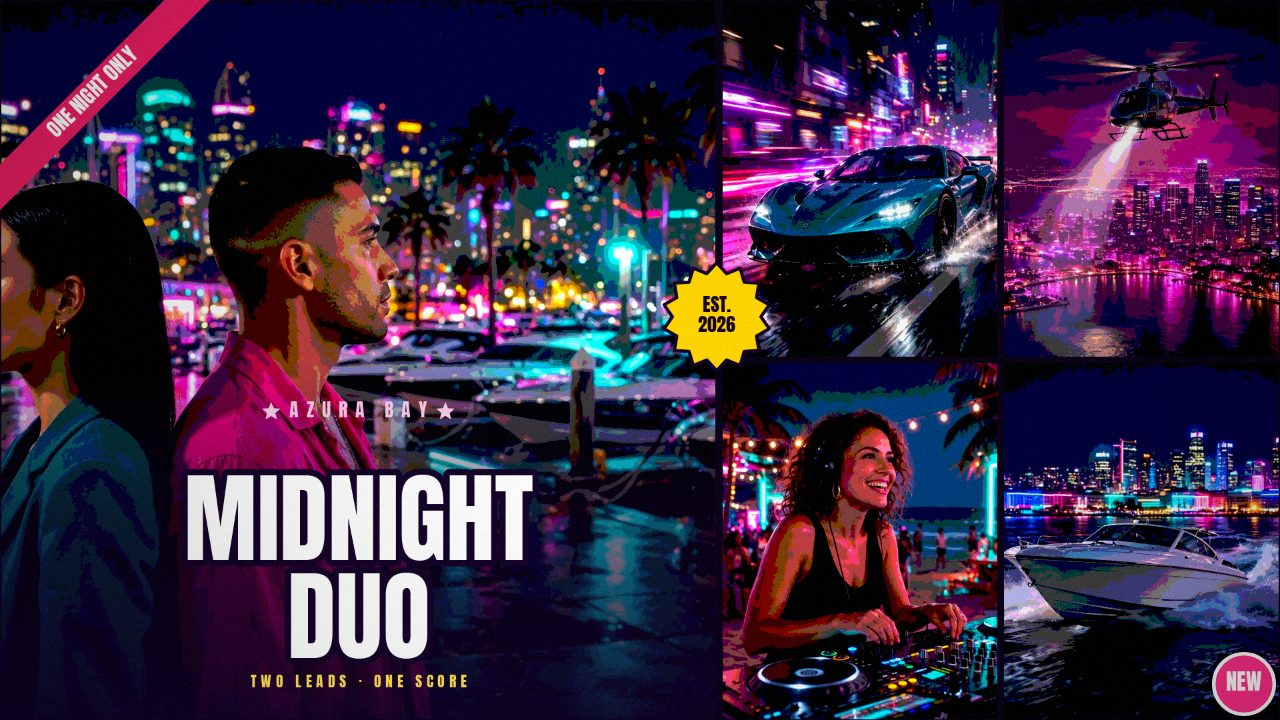
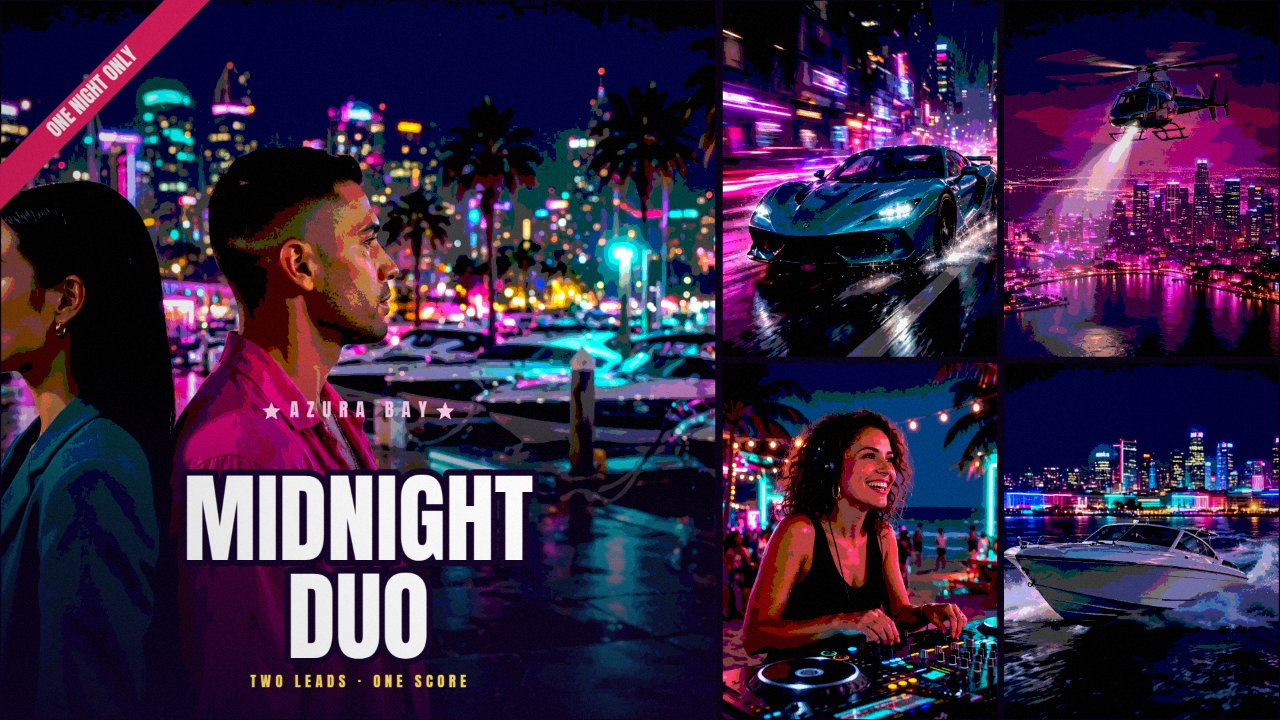
gta6-cover-art-01: drop EST. 2026 starburst + NEW badge (Version D)

diff --git a/app/src/cover.js b/app/src/cover.js
@@ -135,23 +135,6 @@ function drawSash(ctx, hero, text) {
   ctx.restore();
 }
 
-// Pink circle badge with white ring.
-function drawNewBadge(ctx, cx, cy, r) {
-  ctx.beginPath();
-  ctx.arc(cx, cy, r, 0, Math.PI * 2);
-  ctx.fillStyle = BADGE_PINK;
-  ctx.fill();
-  ctx.lineWidth = Math.max(2, r * 0.12);
-  ctx.strokeStyle = '#ffffff';
-  ctx.stroke();
-  const size = r * 0.72;
-  ctx.font = `${size}px Anton, sans-serif`;
-  ctx.textAlign = 'center';
-  ctx.textBaseline = 'middle';
-  ctx.fillStyle = '#ffffff';
-  ctx.fillText('NEW', cx, cy + size * 0.04);
-}
-
 // Draw one photo into a panel rect, cover-fit, with the panel's zoom/pan,
 // then run the grade over the panel pixels.
 function paintPanel(ctx, photo, rect, grade) {
@@ -367,13 +350,6 @@ export function drawCover(ctx, state, w, h) {
     const hero = panels[0];
     paintBandTitle(ctx, state, w, h, hero);
     drawSash(ctx, hero, 'ONE NIGHT ONLY');
-    const seamX = hero.w;
-    // Radius scales with the HERO width too: on tall sizes (portrait /
-    // story) a height-only radius balloons and swallows the city line.
-    // Height 0.44 keeps the badge clear of the city line below it.
-    const burstR = Math.max(26, Math.min(h * 0.075, hero.w * 0.16));
-    drawStarburst(ctx, seamX, h * 0.44, burstR, 'EST.', '2026');
-    drawNewBadge(ctx, w - Math.max(22, h * 0.05), h - Math.max(22, h * 0.05), Math.max(20, h * 0.042));
   } else if (layout === 'nine') {
     paintCentreTitle(ctx, state, w, h);
   } else if (layout === 'bleed') {
